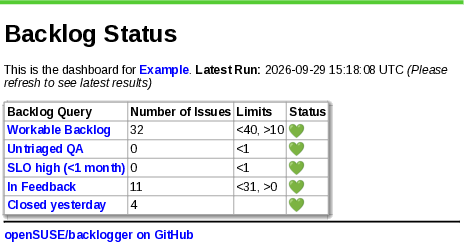
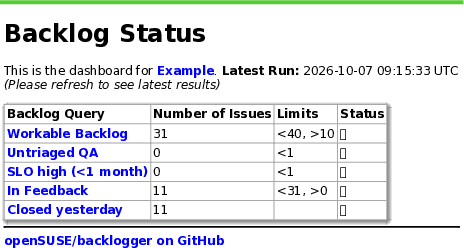
Deploying to gh-pages from @ openSUSE/backlogger@c009922fe3086527b3930128e62446f90862c0f8 🚀

diff --git a/index.html b/index.html
@@ -34,7 +34,7 @@ a {
 <main>
 <h1>Backlog Status</h1>
 <p>This is the dashboard for <a href="http://example.com">Example</a>.
-<strong>Latest Run:</strong> 2026-09-29 15:18:08 UTC
+<strong>Latest Run:</strong> 2026-10-07 09:15:33 UTC
 <em>(Please refresh to see latest results)</em></p>
 <table>
 <thead>
@@ -48,7 +48,7 @@ a {
 <tbody>
 <tr>
 <td><a href="https://progress.opensuse.org/issues?query_id=478">Workable Backlog</a></td>
-<td>32</td>
+<td>31</td>
 <td>&lt;40, &gt;10</td>
 <td>&#x1F49A;</td>
 </tr>
@@ -72,7 +72,7 @@ a {
 </tr>
 <tr>
 <td><a href="https://progress.opensuse.org/issues?query_id=773">Closed yesterday</a></td>
-<td>4</td>
+<td>11</td>
 <td></td>
 <td>&#x1F49A;</td>
 </tr>
